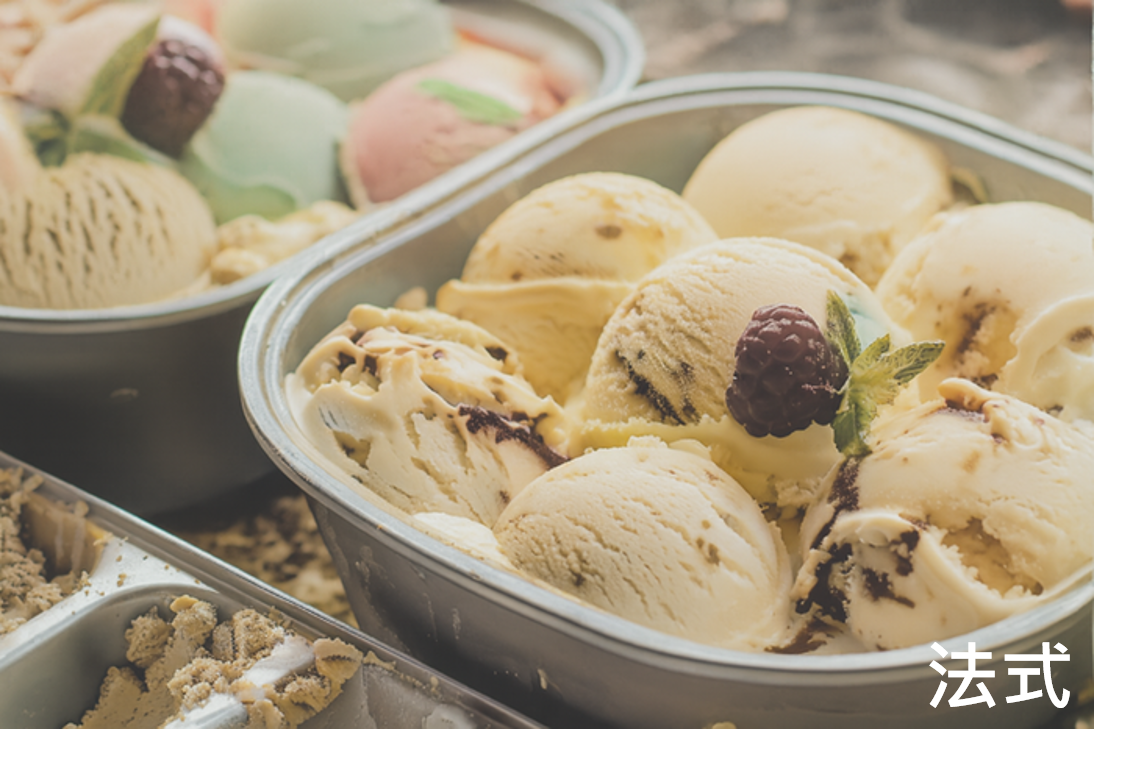
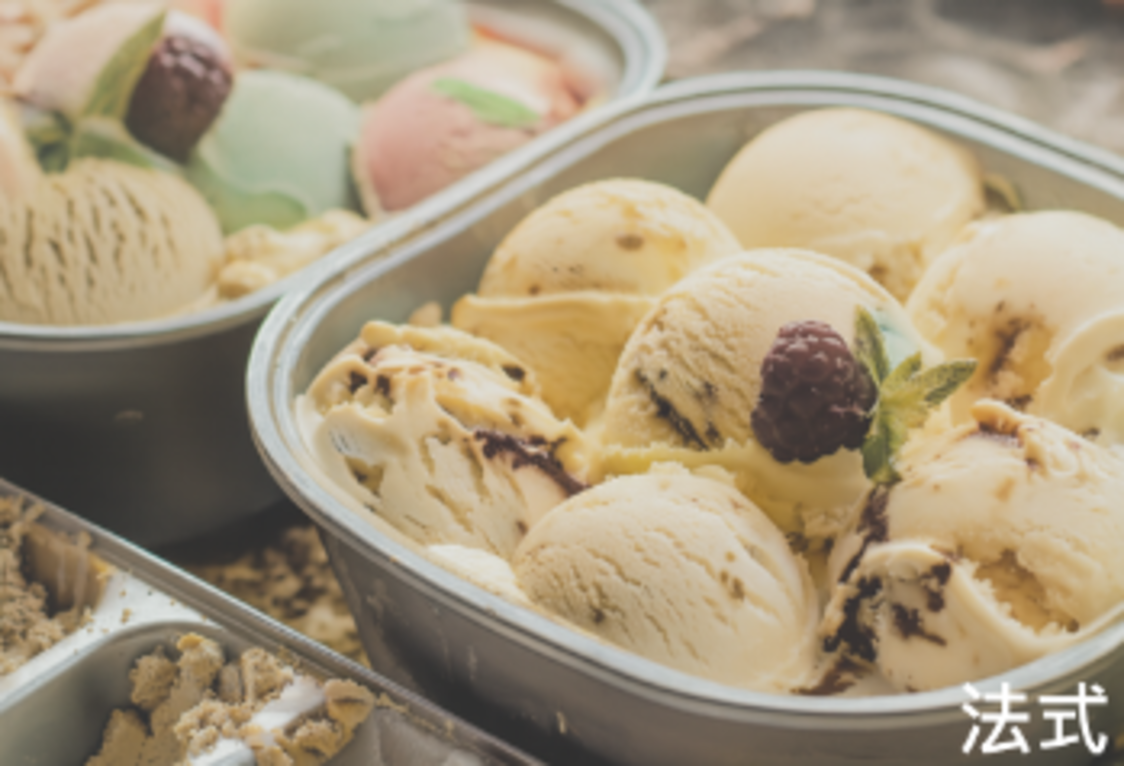
2026/1/12

diff --git a/index12 Fr.html b/index12 Fr.html
@@ -150,7 +150,9 @@
 
                     <div class="col-lg-6 col-md-6 mb-4">
                       <div class="image-container">
-                        <img src="./img/義式冰淇淋.png" class="w-100"/>
+                        <a href="index12.html">
+                          <img src="./img/義式冰淇淋.png" class="w-100" />
+                        </a>
                       </div>
                     </div>
                   </div>
@@ -160,14 +162,14 @@
 
                     <div class="col-lg-6 col-md-6 mb-4">
                       <div class="image-container">
-                        <img src="./img/11.png" class="w-100"/>
+                        <img src="./img/法式黑 (1).png" class="w-100"/>
                       </div>
                     </div>
 
                     <div class="col-lg-6 col-md-6 mb-4">
-                      <div class="image-container">
-                        <img src="./img/美式冰淇淋.png" class="w-100"/>
-                      </div>
+                        <a href="index12 USA.html">
+                          <img src="./img/美式冰淇淋.png" class="w-100" />
+                        </a>
                     </div>
                   </div>
 
@@ -178,11 +180,11 @@
 
 
 
-                    <h1 class="fw-bold mb-4" style="color: orange;">美式冰淇淋</h1>
+                    <h1 class="fw-bold mb-4" style="color: orange;">法式冰淇淋</h1>
 
                     <p class="mb-4" style="font-size: 25px;">
-                      法式冰淇淋加入較多蛋黃，使質地更加柔滑、奶香更突出，整體脂肪含量也相對較高。
-                      甜度較低，使用新鮮奶油與天然香草，呈現純粹又細緻的風味。
+                      法式冰淇淋加入較多蛋黃，質地更滑順、奶香更突出，整體脂肪含量也較高。
+                      甜度低，使用新鮮奶油與天然香草，呈現純粹又細緻的風味。
                     </p>
                     <br>
 

diff --git a/index12 USA.html b/index12 USA.html
@@ -151,7 +151,9 @@
 
                     <div class="col-lg-6 col-md-6 mb-4">
                       <div class="image-container">
-                        <img src="./img/義式冰淇淋.png" class="w-100"/>
+                        <a href="index12.html">
+                          <img src="./img/義式冰淇淋.png" class="w-100" />
+                        </a>
                       </div>
                     </div>
                   </div>
@@ -161,7 +163,9 @@
 
                     <div class="col-lg-6 col-md-6 mb-4">
                       <div class="image-container">
-                        <img src="./img/法式冰淇淋.png" class="w-100"/>
+                        <a href="index12 Fr.html">
+                          <img src="./img/法式冰淇淋.png" class="w-100" />
+                        </a>
                       </div>
                     </div>
 
